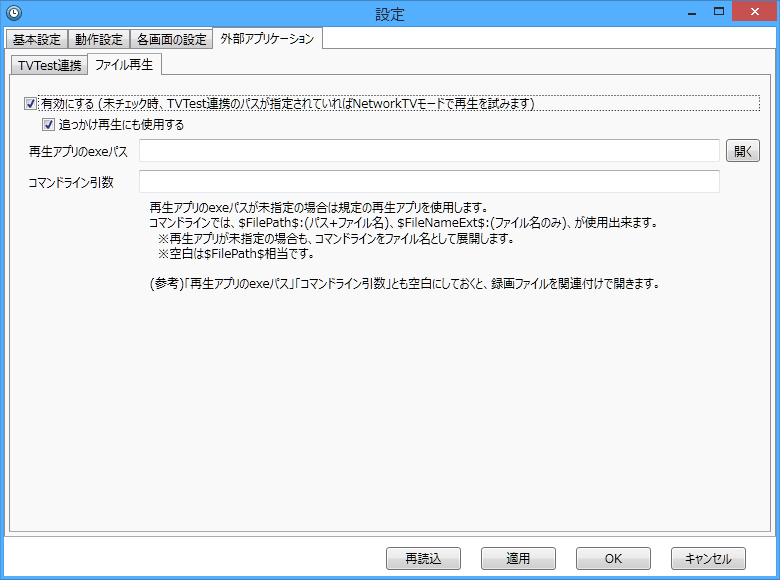
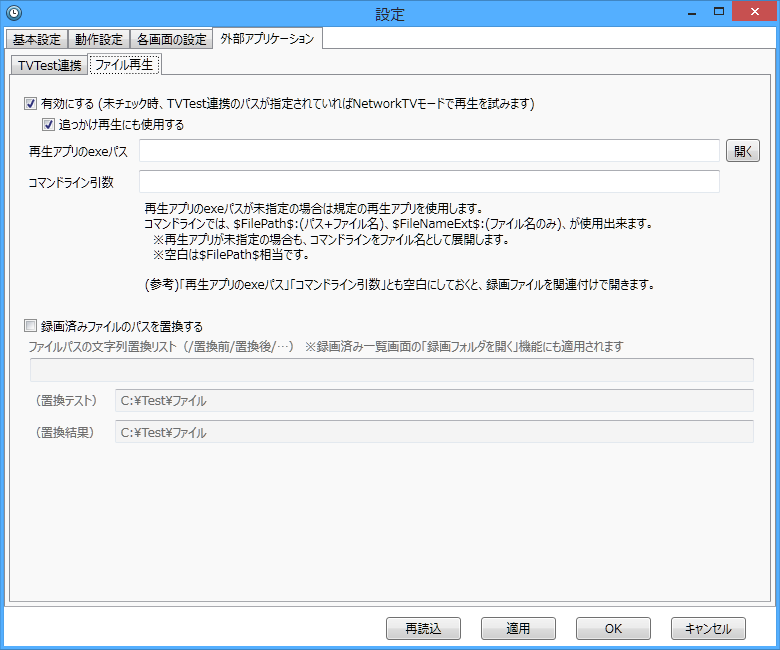
update

diff --git a/index.html b/index.html
@@ -22,7 +22,7 @@
 
 <h2 style="margin-top: 0em;">リポジトリに戻る</h2>
 <ul>
-<li><a href="https://github.com/tkntrec/EDCB">tkntrec@EDCB</a> (my-build-s 2025.03.22)</li>
+<li><a href="https://github.com/tkntrec/EDCB">tkntrec@EDCB</a> (my-build-s 2025.08.16)</li>
 <li><a href="https://github.com/tkntrec/EDCB_PrtSc">この画面一覧のリポジトリ</a></li>
 </ul>
 
